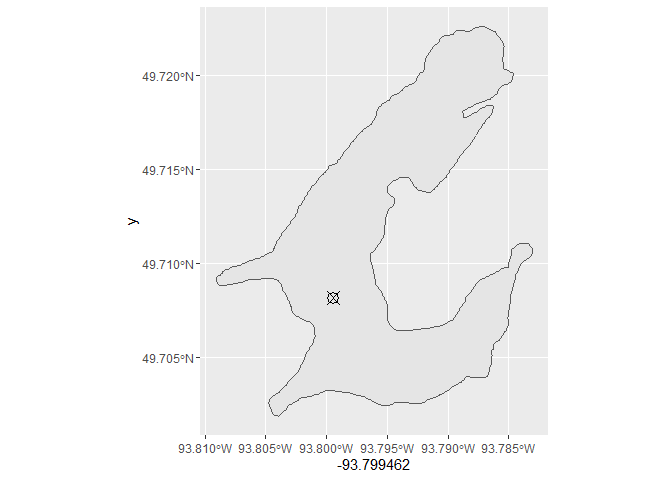
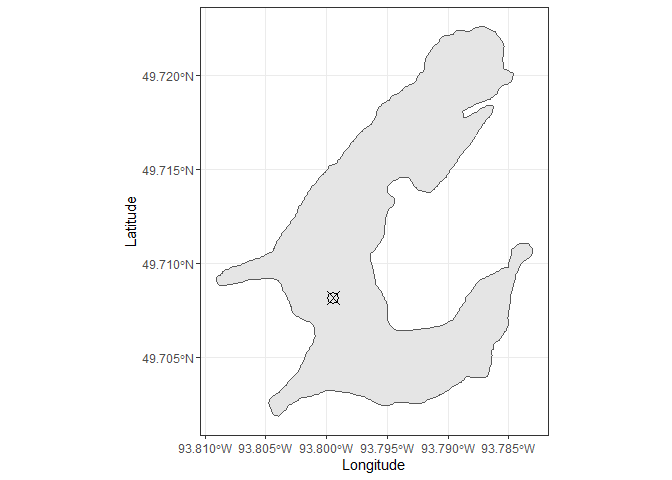
updates readme

Changed region(s): [[0.5, 0.9375, 0.625, 1.0], [0.1875, 0.4062, 0.2188, 0.5]]

diff --git a/README.md b/README.md
@@ -28,7 +28,6 @@ This is an example of how to use the basemaps for each lake.
 ``` r
 library(elaacoustics)
 library(ggplot2)
-#> Warning: package 'ggplot2' was built under R version 4.4.1
 basemap_lake379
 ```
 
@@ -38,7 +37,9 @@ This is an example of how to add a point to the basemap of the lake.
 
 ``` r
 basemap_lake379 + 
-  geom_point(aes(x = -93.799462, y = 49.708170), pch = 13, size = 4)
+  geom_point(aes(x = -93.799462, y = 49.708170), pch = 13, size = 4) +
+  theme_bw() +
+  ylab("Latitude") + xlab("Longitude")
 ```
 
 <img src="man/figures/README-example2-1.png" width="100%" />
